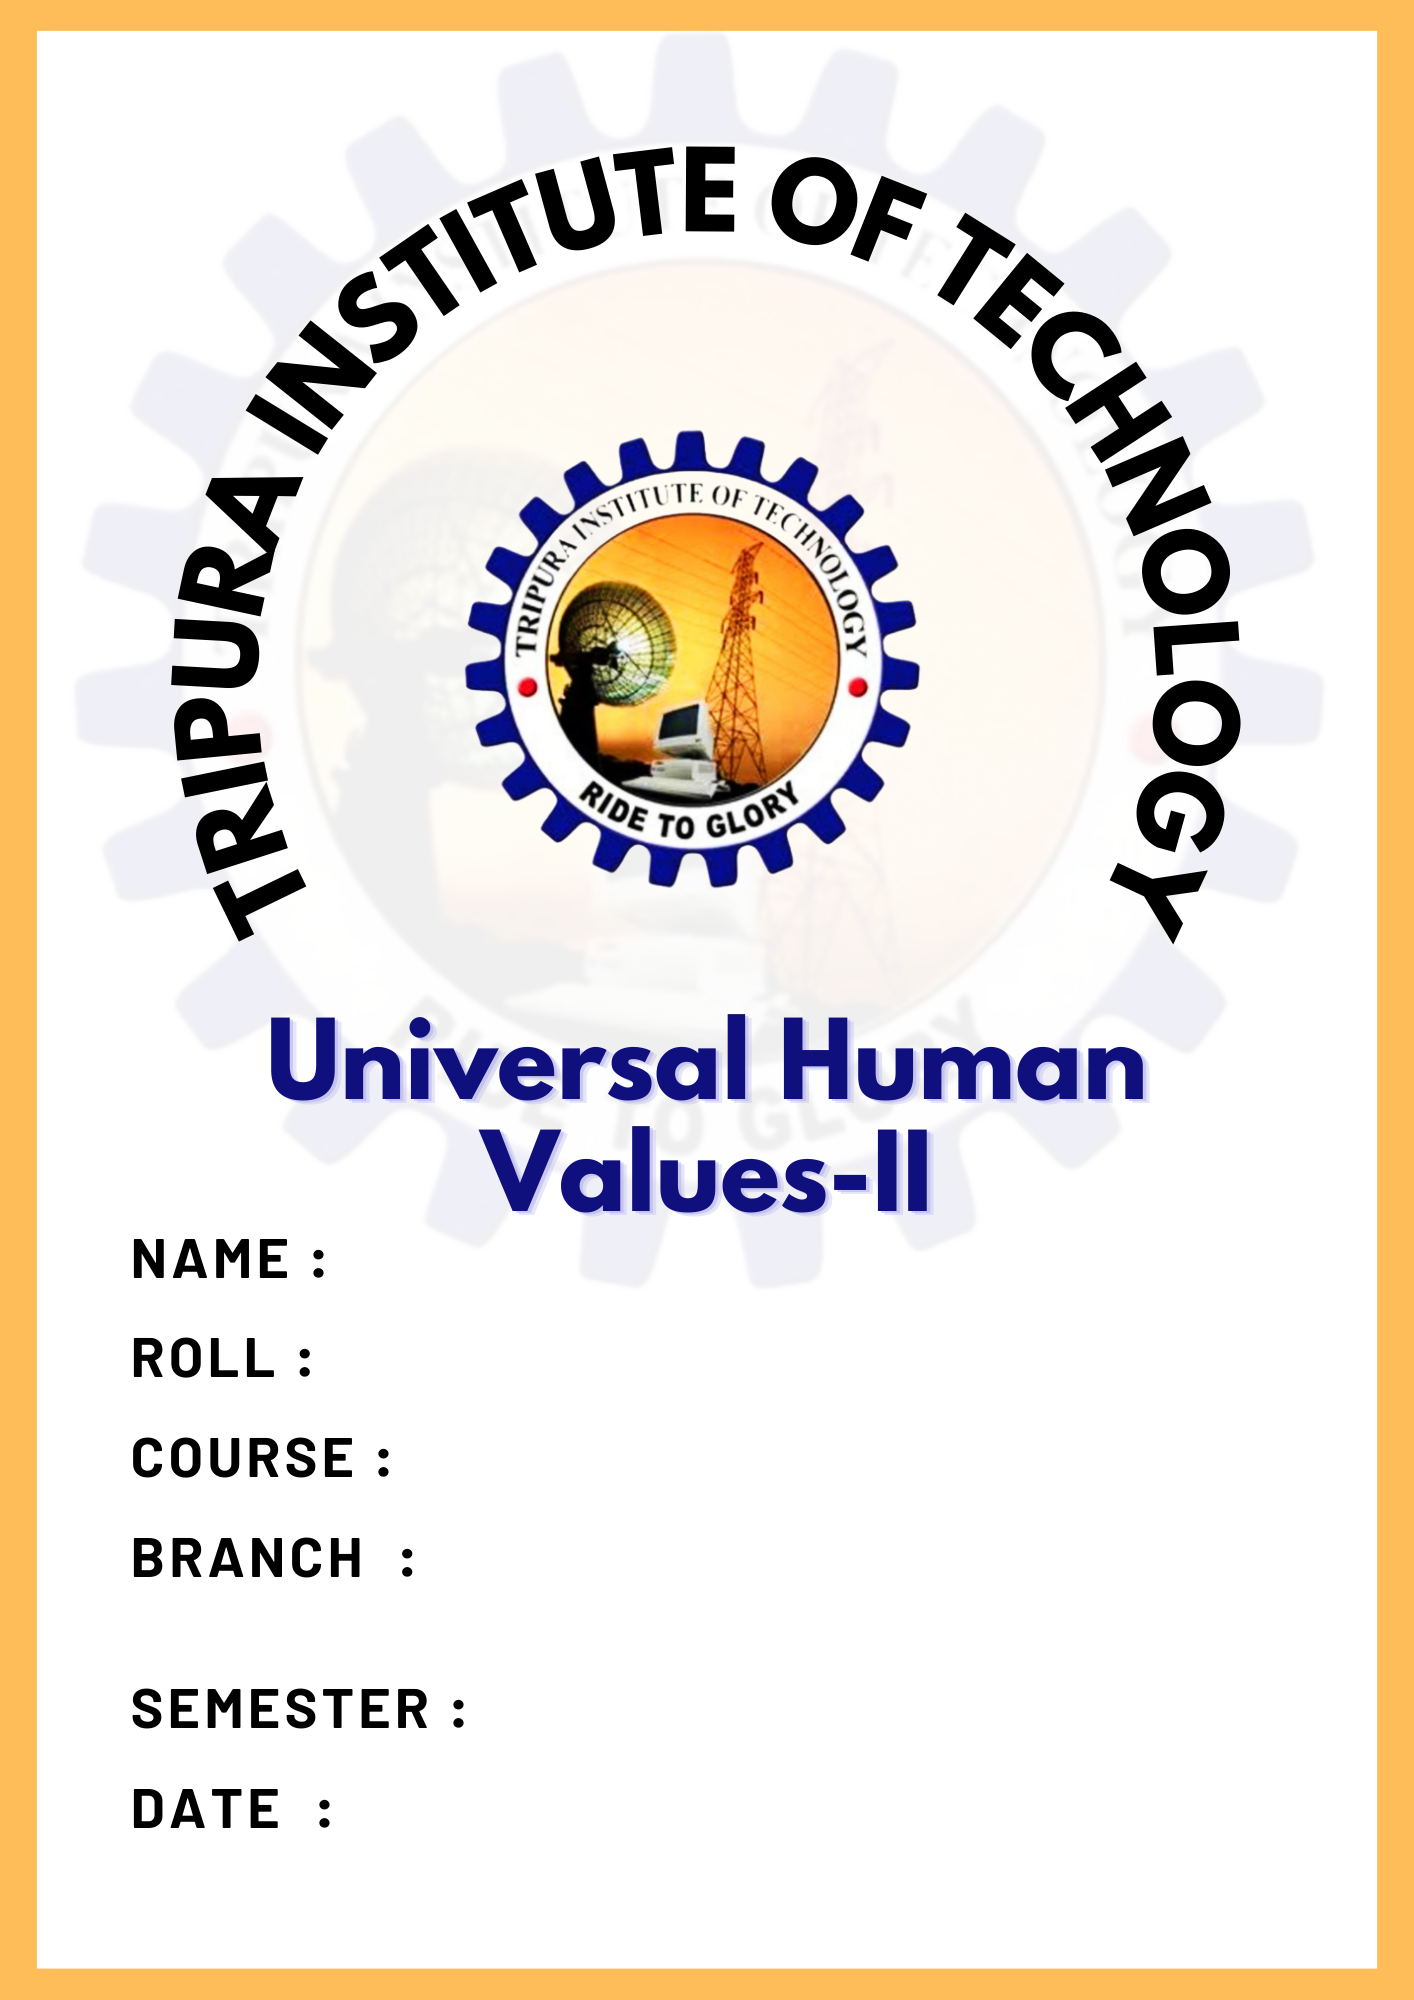
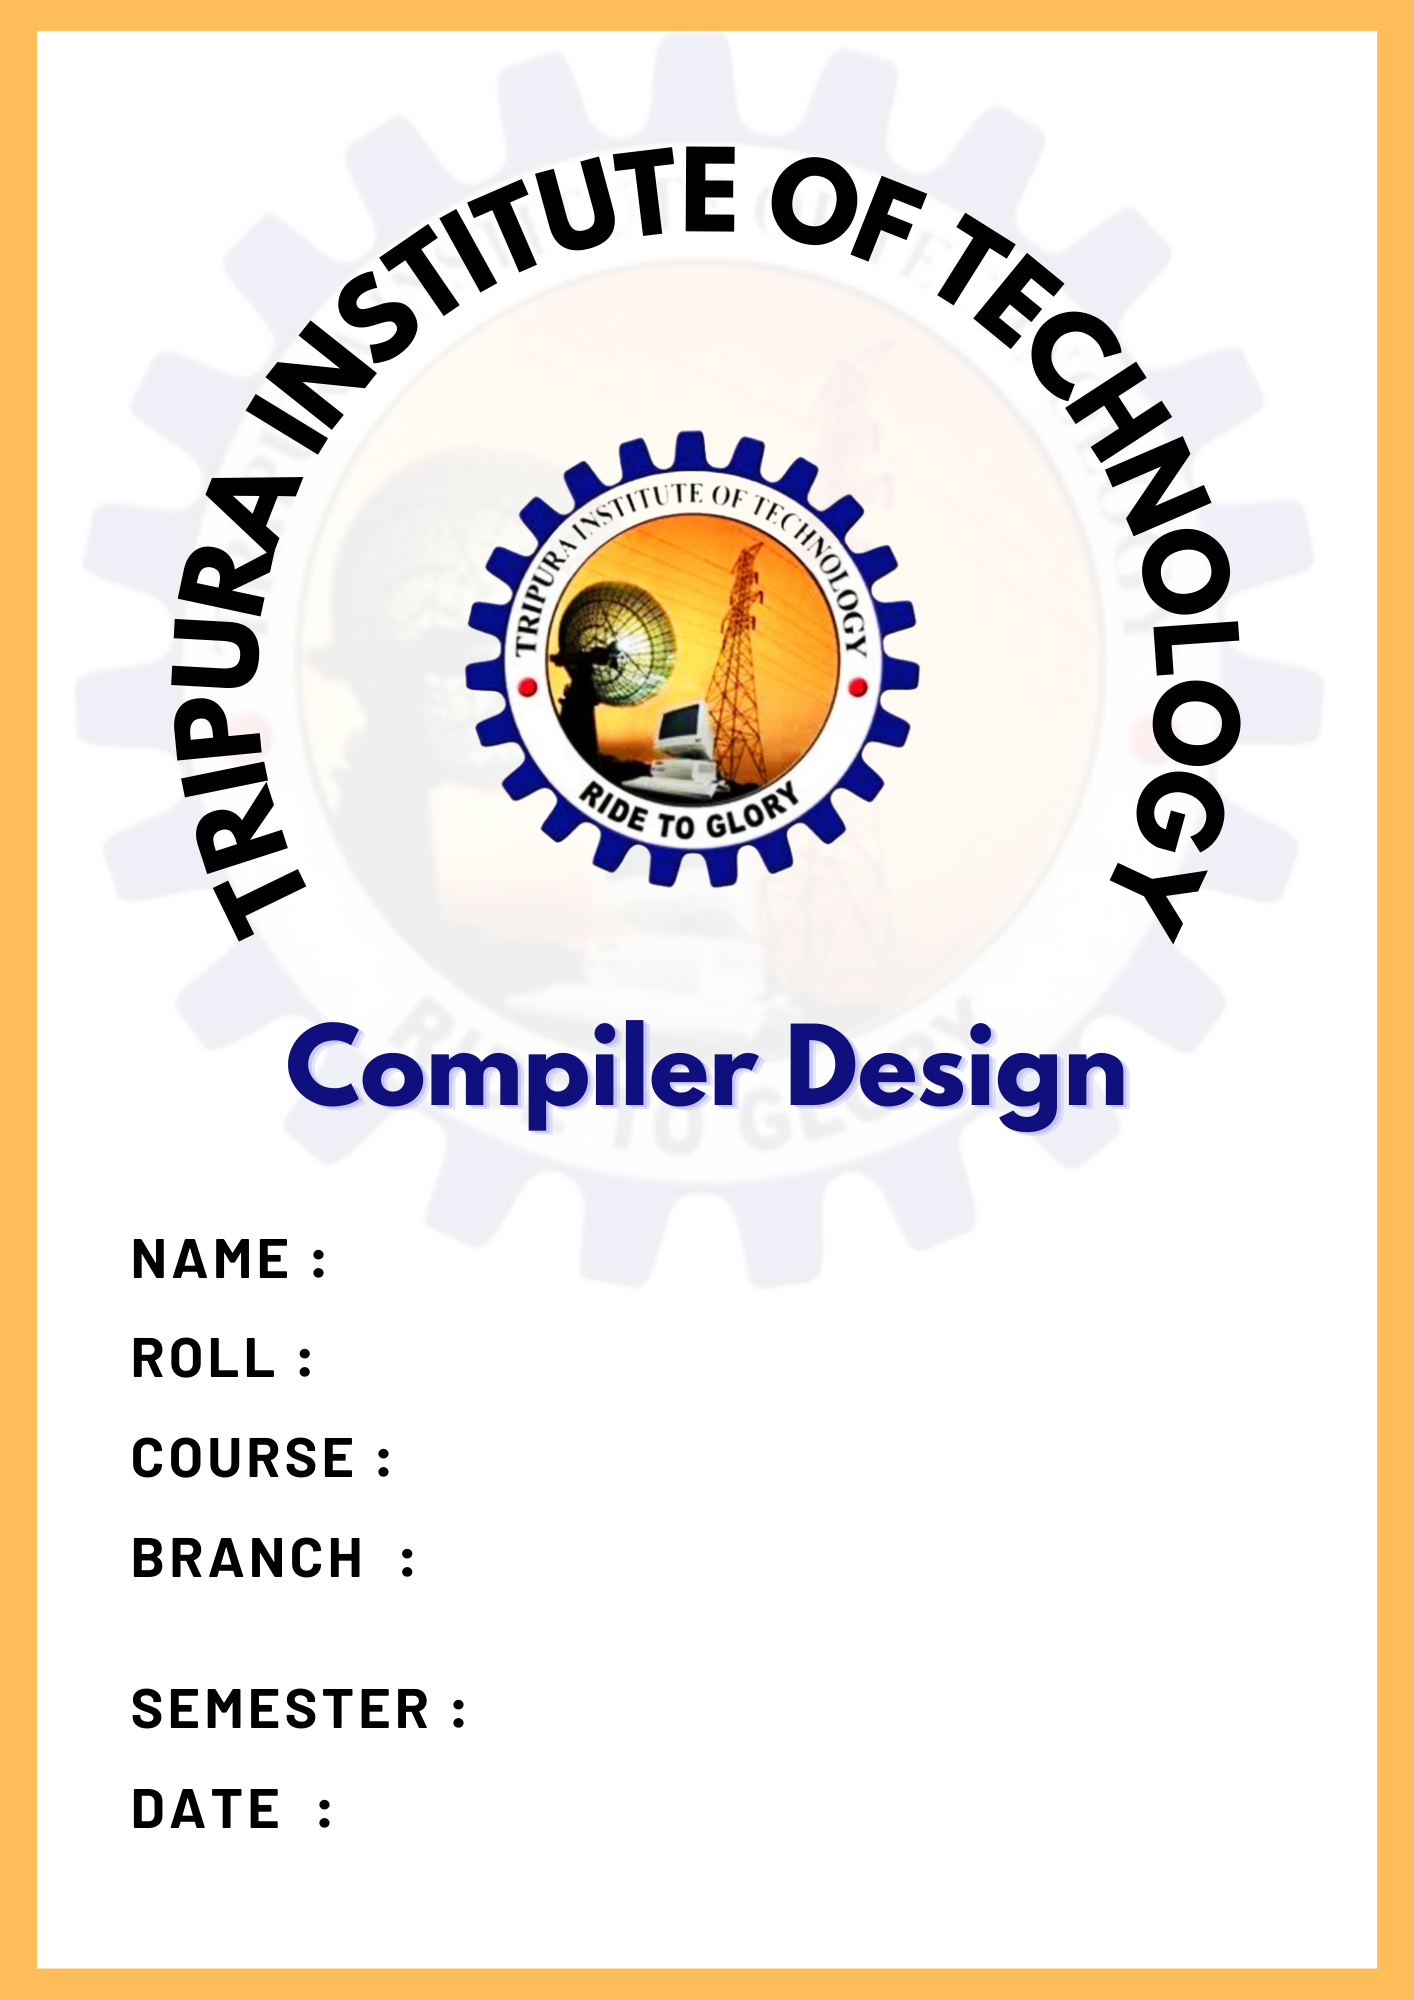
Changes According to 6th semester

Changed region(s): [[0.1867, 0.496, 0.8091, 0.62]]

diff --git a/index.php b/index.php
@@ -23,16 +23,16 @@
             <input type="date" name="date" class="form-control" id="formGroupExampleInput2" placeholder="Another input">
         </div>
         <select class="form-select" aria-label="Default select example" name="subject">
-            <option value="1">Engineering Economics and Accountancy</option>
-            <option value="2">Universal Human Values-II</option>
-            <option value="3">Discrete Mathematics </option>
-            <option value="4">Computer Organization & Architecture </option>
-            <option value="5"> Operating Systems </option>
-            <option value="6">Object Oriented Programming </option>
-            <option value="7">IT Workshop (Python/R) </option>
-            <option value="8"> Operating System Lab </option>
-            <option value="9">Object Oriented Programming Lab </option>
-            <option value="10">Essence of Indian Knowledge Tradition </option>
+            <option value="1">Digital Image Processing</option>
+            <option value="2">Compiler Design </option>
+            <option value="3">Cryptography and Network Security </option>
+            <option value="4">Software Engineering  </option>
+            <option value="5"> Advanced Java Lab </option>
+            <option value="6">Web Technology Lab </option>
+            <option value="7">Image Processing Lab </option>
+            <option value="8">Advanced Computer Architecture</option>
+            <option value="9">Data Mining</option>
+            <option value="10">Web Technology</option>
         </select>
         <button type="submit" name="create">Create</button>
     </form>

diff --git a/pdf/generate.php b/pdf/generate.php
@@ -146,7 +146,7 @@ if (isset($_POST['create'])) {
 
     // $pdf->Cell(70, 10, "       SEMESTER  :", 0, 0, 'L');
     $pdf->Cell(70, 5, "       ", 0, 0, 'L');
-    $pdf->Cell(110,12, '4TH SEMESTER', 0, 1, 'L');
+    $pdf->Cell(110,12, '6TH SEMESTER', 0, 1, 'L');
     $pdf->Cell(180, 5, '', 0, 1, 'L');
 
     // $pdf->Cell(70, 10, "       DATE  :", 0, 0, 'L');
